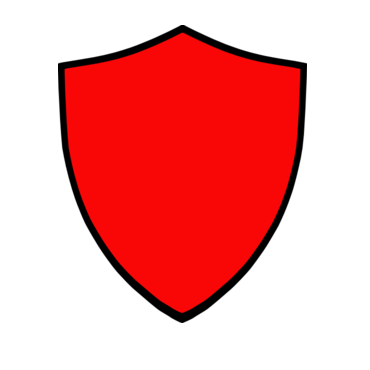
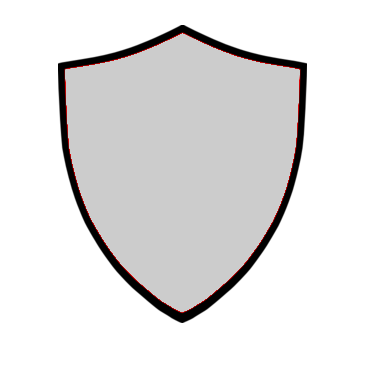
Styled piece and cursor shield

diff --git a/src/client/game/board/Square.js b/src/client/game/board/Square.js
@@ -44,19 +44,18 @@ export default class Square extends Component {
             var picture3 = require('../../images/powerups/' + this.props.powerUpImg + '.png');
             activePowerUp = {
                 background: 'url(' + picture3 + ')',
-                backgroundSize: 'calc(5.4 * (1vw + 1vh - 1vmin))',
+                backgroundSize: 'calc(4 * (1vw + 1vh - 1vmin))',
                 backgroundRepeat: 'no-repeat'
             }
         }
         return (
             <div className={this.props.minimap ? boardStyles.squareMiniMap : boardStyles.square} style={squareStyle}>
                 <div className={rosettaSquares.includes(i) ? (this.props.minimap ? boardStyles.rosettaMiniMap : boardStyles.rosetta) : null}>
-                    {this.props.powerUpImg ? <div className={boardStyles.activePowerUpDiv} style={activePowerUp} /> : null}
                     {this.props.powerUp ? <div style={powerUpStyle} className={boardStyles.powerUp} /> : null}
                     {this.props.piece ? <Piece displayNumber={this.props.displayNumber} setHighlightSquare={this.props.setHighlightSquare} position={this.props.position} className={this.props.pieceClassName} movePiece={this.props.movePiece} minimap={this.props.minimap}/> : null}
                     {this.props.opponentPiece ? <OpponentPiece movePiece={this.props.movePiece} displayNumber={this.props.displayNumber} className={this.props.pieceClassName} minimap={this.props.minimap} position={this.props.position} /> : null}
                     {this.props.highlight ? <div className={boardStyles.moveHighlighter} style={highlightStyle} /> : null}
-
+                    {this.props.powerUpImg ? <div className={boardStyles.activePowerUpDiv} style={activePowerUp} /> : null}
                 </div>
             </div>
         );

diff --git a/src/client/game/board/Board.css b/src/client/game/board/Board.css
@@ -276,9 +276,9 @@
 .activePowerUpDiv {
     position: absolute;
     border-radius: 50%;
-    height: calc(0.9 * var(--squareSide));
-    width: calc(0.9 * var(--squareSide));
-    margin-left: calc((var(--squareSide) - 1.2 * var(--squareSide)) / 2);
-    margin-right: calc((var(--squareSide) - 1.2 * var(--squareSide)) / 2);
-    margin-top: calc((var(--squareSide) - 1.2 * var(--squareSide)) / 2);
+    height: calc(0.67 * var(--squareSide));
+    width: calc(0.67 * var(--squareSide));
+    margin-left: calc((var(--squareSide) + 0.05 * var(--squareSide)) / 2.5);
+    margin-right: calc((var(--squareSide) + 0.05 * var(--squareSide)) / 2.5);
+    margin-top: calc((var(--squareSide) + 0.05 * var(--squareSide)) / 2.5);
 }
